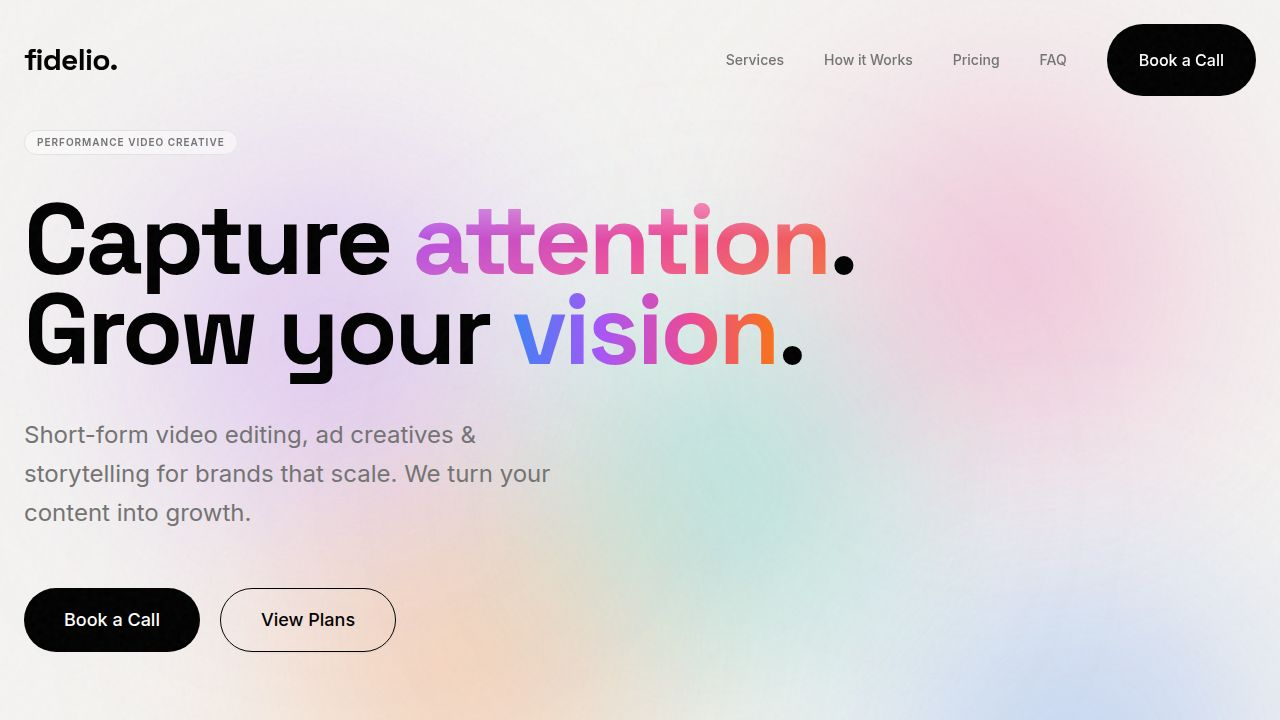
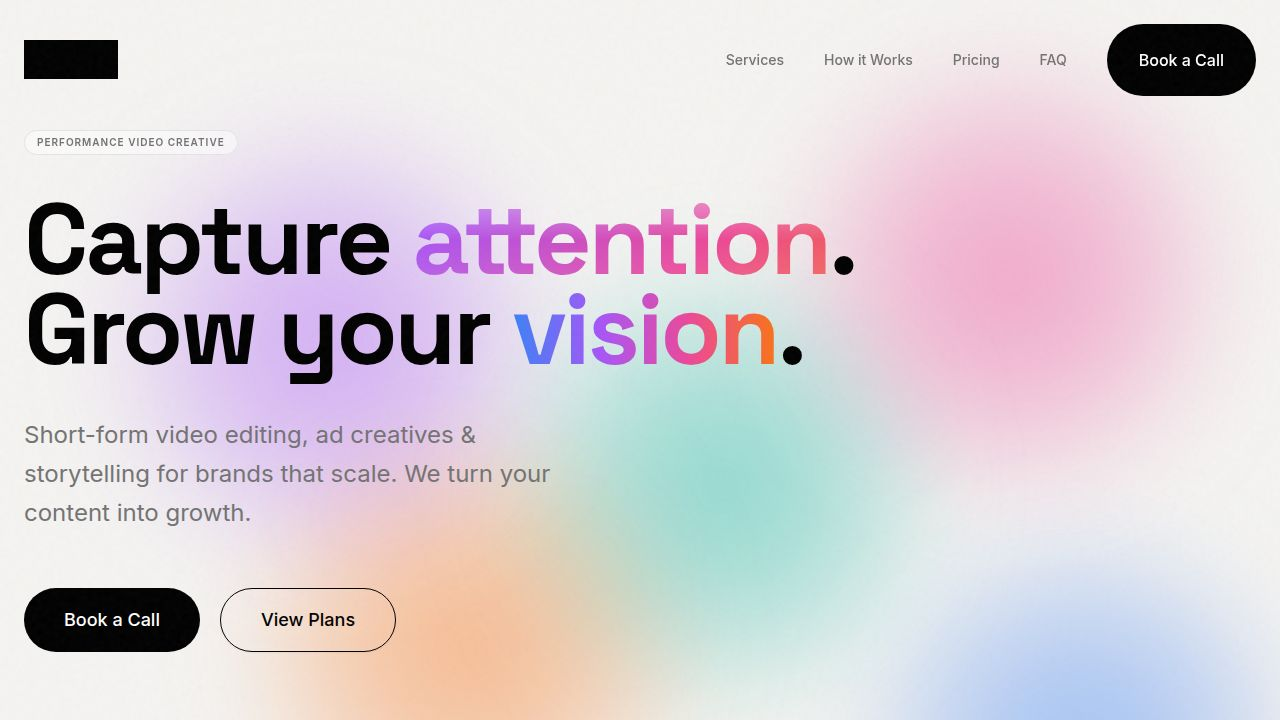
Refine interactive elements and visual effects on the landing page
Update hero section blobs with reduced blur and increased opacity. Enhance word hover effects with cool-spectrum gradients and soft glows. Implement cursor-localized glow for the logo.

Replit-Commit-Author: Agent
Replit-Commit-Session-Id: bc46e6ff-75c2-4139-b1bc-9ff055a37c96
Replit-Commit-Checkpoint-Type: full_checkpoint
Replit-Commit-Event-Id: 210b19ba-b4d8-4b6f-b24a-97261a2dc8cd
Replit-Commit-Screenshot-Url: https://storage.googleapis.com/screenshot-production-us-central1/83026be7-9c39-498e-81e3-17aba353c628/bc46e6ff-75c2-4139-b1bc-9ff055a37c96/0mVAtjt
Replit-Helium-Checkpoint-Created: true

diff --git a/client/src/components/sections/Hero.tsx b/client/src/components/sections/Hero.tsx
@@ -1,10 +1,9 @@
 import { Button } from "@/components/ui/button";
-import { motion, useMotionValue, useSpring } from "framer-motion";
-import { useRef, useEffect } from "react";
+import { motion } from "framer-motion";
 
 const FloatingBlob = ({ color, initialX, initialY, duration, delay }: { color: string, initialX: string, initialY: string, duration: number, delay: number }) => (
   <motion.div
-    className="absolute rounded-full blur-[100px] opacity-40 mix-blend-screen pointer-events-none"
+    className="absolute rounded-full blur-[50px] opacity-50 mix-blend-screen pointer-events-none"
     style={{
       background: `radial-gradient(circle at center, ${color}, transparent)`,
       width: '400px',
@@ -24,53 +23,6 @@ const FloatingBlob = ({ color, initialX, initialY, duration, delay }: { color: s
     }}
   />
 );
-
-const InteractiveWord = ({ children, className, dataText }: { children: React.ReactNode, className?: string, dataText?: string }) => {
-  const ref = useRef<HTMLSpanElement>(null);
-  const mouseX = useMotionValue(0);
-  const mouseY = useMotionValue(0);
-  const springX = useSpring(mouseX, { stiffness: 100, damping: 20 });
-  const springY = useSpring(mouseY, { stiffness: 100, damping: 20 });
-  const isHovered = useMotionValue(0);
-
-  const handleMouseMove = (e: React.MouseEvent) => {
-    if (!ref.current) return;
-    const rect = ref.current.getBoundingClientRect();
-    mouseX.set(e.clientX - rect.left);
-    mouseY.set(e.clientY - rect.top);
-  };
-
-  return (
-    <span 
-      ref={ref}
-      onMouseMove={handleMouseMove}
-      onMouseEnter={() => isHovered.set(1)}
-      onMouseLeave={() => isHovered.set(0)}
-      className={`relative inline-block ${className}`}
-      data-text={dataText}
-      style={{
-        transition: 'text-shadow 0.3s ease'
-      } as any}
-    >
-      <motion.span
-        className="absolute inset-0 pointer-events-none z-10"
-        style={{
-          background: `radial-gradient(circle 60px at var(--mouse-x) var(--mouse-y), rgba(34, 197, 94, 0.5), rgba(59, 130, 246, 0.5), rgba(234, 179, 8, 0.4), transparent)`,
-          opacity: isHovered,
-          WebkitBackgroundClip: 'text',
-          WebkitTextFillColor: 'transparent',
-          backgroundClip: 'text',
-          transition: 'opacity 0.3s ease',
-          '--mouse-x': springX.set + 'px',
-          '--mouse-y': springY.set + 'px'
-        } as any}
-      >
-        {children}
-      </motion.span>
-      {children}
-    </span>
-  );
-};
 
 export default function Hero() {
   const scrollToPricing = () => {
@@ -109,14 +61,16 @@ export default function Hero() {
 
             <h1 className="text-6xl md:text-8xl lg:text-[100px] font-bold tracking-tight leading-[0.9] text-black text-left">
               Capture{" "}
-              <InteractiveWord className="liquid-glass-text animate-gradient-text cursor-default" dataText="attention">
+              <span className="liquid-glass-text animate-gradient-text cursor-default cool-hover" data-text="attention">
                 attention
-              </InteractiveWord>. <br />
+              </span>. <br />
               Grow your{" "}
-              <InteractiveWord className="vision-gradient transition-premium hover-glow group-hover:animate-gradient-text cursor-default">
-                vision
-              </InteractiveWord>
-              .
+              <span className="relative inline-block group cursor-default">
+                <span className="vision-gradient transition-premium group-hover:animate-gradient-text cool-hover">
+                  vision
+                </span>
+                .
+              </span>
             </h1>
 
             <p className="text-xl md:text-2xl text-[#737373] max-w-xl leading-relaxed font-light text-left">

diff --git a/client/src/components/layout/Navbar.tsx b/client/src/components/layout/Navbar.tsx
@@ -1,11 +1,14 @@
 import { Button } from "@/components/ui/button";
 import { Link } from "wouter";
-import { useState, useEffect } from "react";
+import { useState, useEffect, useRef } from "react";
 import { Menu } from "lucide-react";
 import { Sheet, SheetContent, SheetTrigger } from "@/components/ui/sheet";
 
 export default function Navbar() {
   const [scrolled, setScrolled] = useState(false);
+  const logoRef = useRef<HTMLAnchorElement>(null);
+  const [mousePos, setMousePos] = useState({ x: 0, y: 0 });
+  const [isHovered, setIsHovered] = useState(false);
 
   useEffect(() => {
     const handleScroll = () => {
@@ -14,6 +17,15 @@ export default function Navbar() {
     window.addEventListener("scroll", handleScroll);
     return () => window.removeEventListener("scroll", handleScroll);
   }, []);
+
+  const handleMouseMove = (e: React.MouseEvent) => {
+    if (!logoRef.current) return;
+    const rect = logoRef.current.getBoundingClientRect();
+    setMousePos({
+      x: e.clientX - rect.left,
+      y: e.clientY - rect.top
+    });
+  };
 
   const scrollToSection = (id: string) => {
     const element = document.getElementById(id);
@@ -47,9 +59,25 @@ export default function Navbar() {
       <div className="container mx-auto px-6 flex items-center justify-between">
         <Link href="/">
           <a 
-            className="relative text-2xl md:text-3xl font-bold tracking-tight font-display text-black transition-all duration-300 logo-hover-gradient"
+            ref={logoRef}
+            onMouseMove={handleMouseMove}
+            onMouseEnter={() => setIsHovered(true)}
+            onMouseLeave={() => setIsHovered(false)}
+            className="relative text-2xl md:text-3xl font-bold tracking-tight font-display text-black overflow-hidden py-1"
           >
-            fidelio.
+            <span 
+              className="relative z-10 transition-colors duration-300"
+              style={{
+                background: isHovered 
+                  ? `radial-gradient(circle 20px at ${mousePos.x}px ${mousePos.y}px, #a855f7, #3b82f6, black 80%)`
+                  : 'black',
+                WebkitBackgroundClip: isHovered ? 'text' : 'none',
+                WebkitTextFillColor: isHovered ? 'transparent' : 'black',
+                backgroundClip: isHovered ? 'text' : 'none',
+              }}
+            >
+              fidelio.
+            </span>
           </a>
         </Link>
 

diff --git a/client/src/index.css b/client/src/index.css
@@ -112,6 +112,18 @@ h1, h2, h3, h4, h5, h6 {
   pointer-events: none;
 }
 
+/* Cool Hover Behavior for attention/vision */
+.cool-hover {
+  transition: all 300ms ease !important;
+}
+
+.cool-hover:hover {
+  background: linear-gradient(to right, #3b82f6, #14b8a6, #eab308, #22c55e) !important;
+  -webkit-background-clip: text !important;
+  -webkit-text-fill-color: transparent !important;
+  text-shadow: 0 0 20px rgba(59, 130, 246, 0.4), 0 0 40px rgba(20, 184, 166, 0.2) !important;
+}
+
 /* Gradient Text Animation */
 @keyframes gradientMove {
   0% { background-position: 0% 50%; }
@@ -158,19 +170,6 @@ h1, h2, h3, h4, h5, h6 {
 /* Light Elevated Section Backgrounds */
 .bg-light-elevated {
   background: linear-gradient(135deg, rgba(230, 230, 250, 0.12) 0%, rgba(224, 242, 254, 0.12) 50%, rgba(251, 232, 239, 0.12) 100%);
-}
-
-/* Logo Hover Effect */
-.logo-hover-gradient {
-  transition: all 300ms ease;
-}
-
-.logo-hover-gradient:hover {
-  background: linear-gradient(135deg, #a855f7, #ec4899, #f97316, #3b82f6);
-  -webkit-background-clip: text;
-  -webkit-text-fill-color: transparent;
-  background-clip: text;
-  text-shadow: 0 0 15px rgba(168, 85, 247, 0.4), 0 0 30px rgba(59, 130, 246, 0.2);
 }
 
 .transition-premium {
